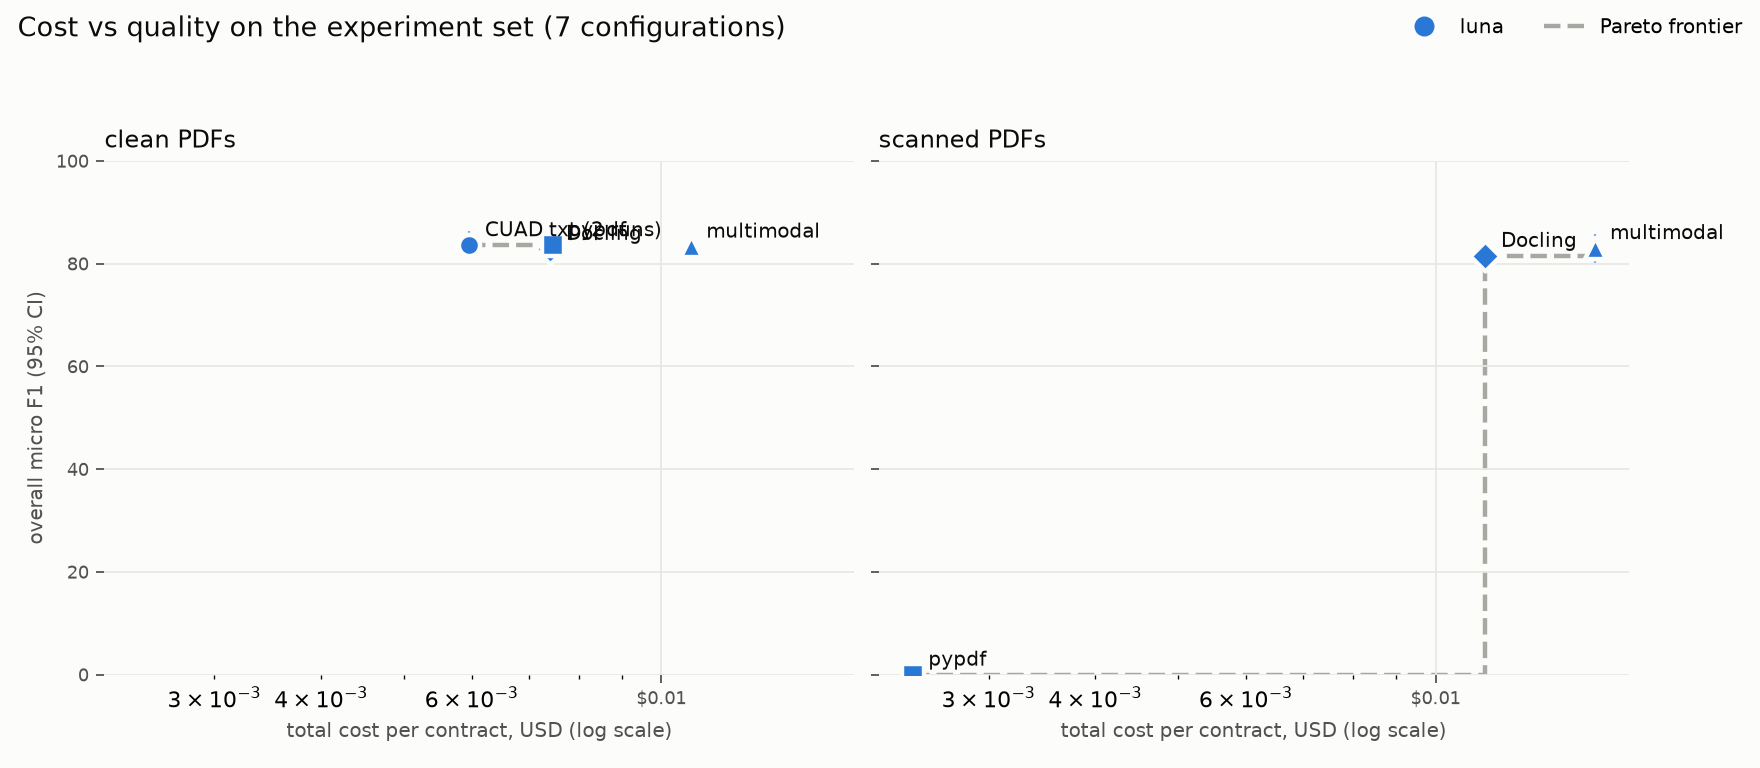
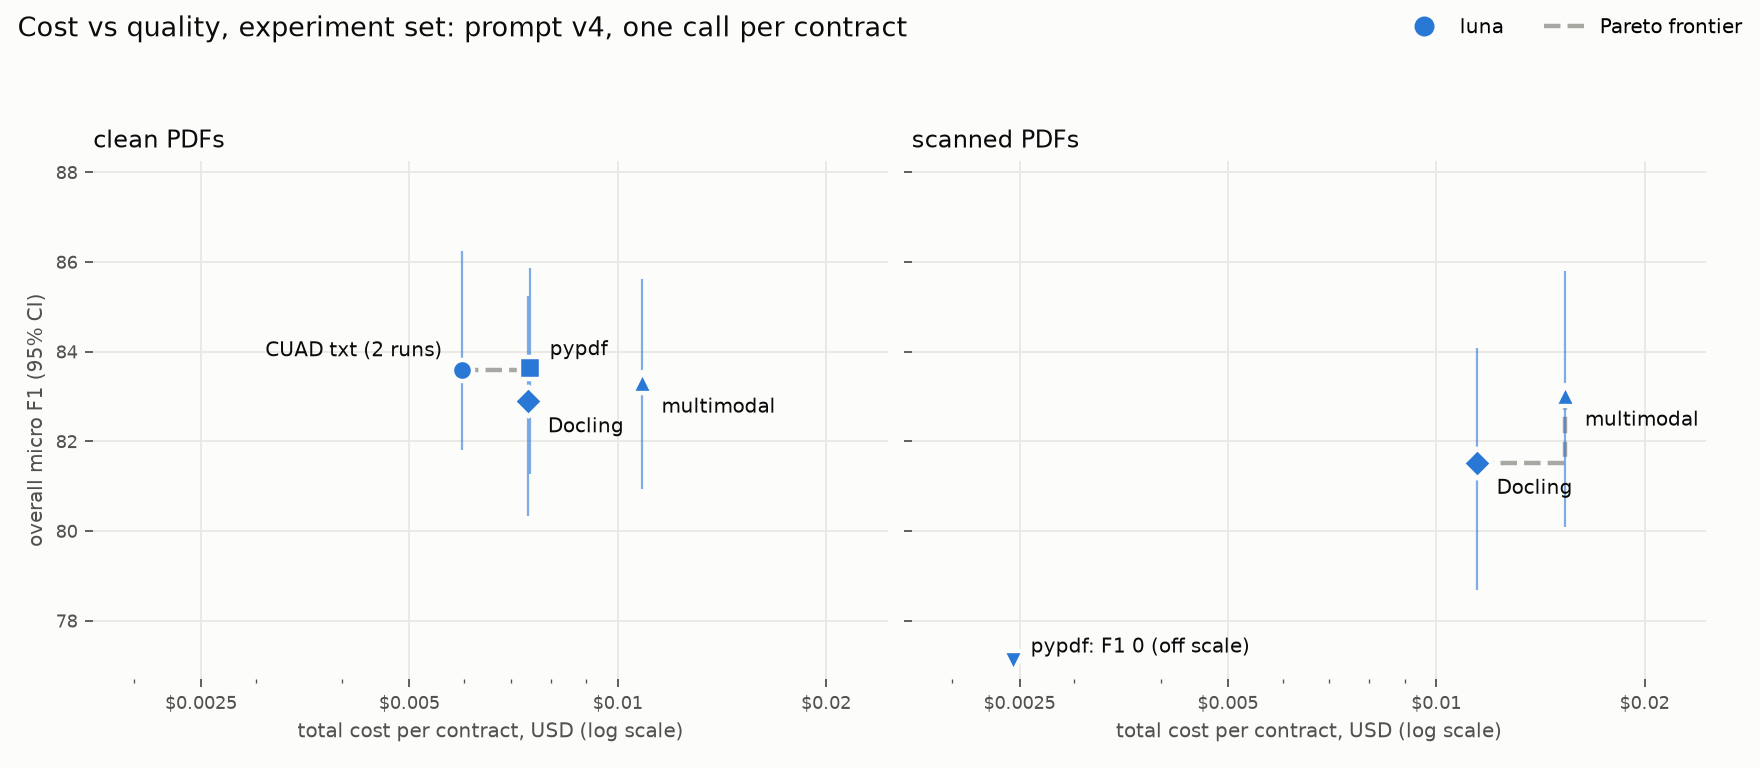
Pareto chart: zoom to working routes, pin collapsed ones, readable ticks and labels
Render check found the F1-0 pypdf-on-scans point squashing every other route
into a sliver, colliding labels and crowded minor ticks. The collapsed route
is now pinned to the bottom edge with an explicit off-scale label, routes get
fixed label sides, and cost ticks are fixed dollar values.

diff --git a/src/dip/eval/charts.py b/src/dip/eval/charts.py
@@ -25,7 +25,18 @@ TEXT_SECONDARY = "#52514e"
 GRID = "#e8e7e3"
 FRONTIER = "#a8a7a2"
 MODEL_COLORS = {"gpt-5.6-luna": "#2a78d6", "gpt-5.6-terra": "#eb6834", "gpt-5.6-sol": "#1baf7a"}
-ROUTE_MARKERS = {"txt": "o", "pypdf": "s", "docling": "D", "multimodal": "^"}
+ROUTE_MARKERS = {"txt": "o", "pypdf": "s", "docling": "D", "multimodal": "^", "hybrid": "P"}
+# Label placement per route (points, alignment): routes sit close together in cost and
+# F1, so each gets its own side instead of an automatic offset that collides.
+LABEL_OFFSETS = {
+    "txt": ((-9, 6), "right"),
+    "pypdf": ((9, 6), "left"),
+    "docling": ((9, -14), "left"),
+    "multimodal": ((9, -14), "left"),
+    "hybrid": ((9, 6), "left"),
+}
+COST_TICKS = (0.0025, 0.005, 0.01, 0.02, 0.05, 0.1)
+OFF_SCALE_F1 = 0.2  # below this a route has collapsed: pin it to the edge, label it
 ROUTE_LABELS = {
     "txt": "CUAD txt",
     "pypdf": "pypdf",
@@ -101,17 +112,21 @@ def render(points: list[Point], out: Path, title: str) -> None:
     matplotlib.use("Agg")
     import matplotlib.pyplot as plt
     from matplotlib.lines import Line2D
+    from matplotlib.ticker import FuncFormatter, NullFormatter
 
-    variants = ["clean", "scanned"]
-    from matplotlib.ticker import FuncFormatter
+    # Zoom to the routes that work; a collapsed route (F1 ~0, e.g. pypdf on scans) is pinned
+    # to the bottom edge with an explicit label instead of squashing everything into a sliver.
+    on_scale = [p for p in points if p.f1 >= OFF_SCALE_F1] or points
+    y_low = 100 * min((p.low for p in on_scale), default=0.5) - 2
+    y_high = min(100.0, 100 * max((p.high for p in on_scale), default=1.0) + 2)
+    dollars = FuncFormatter(lambda v, _: f"${v:.3g}")
 
     # Shared x and y: the two panels must be directly comparable.
     fig, axes = plt.subplots(1, 2, figsize=(11, 4.8), sharex=True, sharey=True, facecolor=SURFACE)
-    lows = [p.low for p in points] or [0.5]
-    for ax, variant in zip(axes, variants, strict=True):
+    for ax, variant in zip(axes, ("clean", "scanned"), strict=True):
         ax.set_facecolor(SURFACE)
         panel = [p for p in points if p.variant == variant]
-        front = pareto_front(panel)
+        front = [p for p in pareto_front(panel) if p.f1 >= OFF_SCALE_F1]
         if len(front) > 1:
             ax.step(
                 [p.cost for p in front],
@@ -122,8 +137,30 @@ def render(points: list[Point], out: Path, title: str) -> None:
                 linestyle="--",
                 zorder=1,
             )
-        for p in panel:
+        for p in sorted(panel, key=lambda q: (q.cost, q.f1)):
             color = MODEL_COLORS.get(p.model, TEXT_SECONDARY)
+            name = ROUTE_LABELS.get(p.route, p.route)
+            if p.f1 < OFF_SCALE_F1:
+                ax.scatter(
+                    p.cost,
+                    y_low + 0.4,
+                    s=90,
+                    marker="v",
+                    color=color,
+                    edgecolors=SURFACE,
+                    linewidths=2,
+                    zorder=3,
+                    clip_on=False,
+                )
+                ax.annotate(
+                    f"{name}: F1 {100 * p.f1:.0f} (off scale)",
+                    (p.cost, y_low + 0.4),
+                    xytext=(8, 4),
+                    textcoords="offset points",
+                    fontsize=9,
+                    color=TEXT_PRIMARY,
+                )
+                continue
             ax.errorbar(
                 p.cost,
                 100 * p.f1,
@@ -145,21 +182,25 @@ def render(points: list[Point], out: Path, title: str) -> None:
                 linewidths=2,
                 zorder=3,
             )
-            label = ROUTE_LABELS.get(p.route, p.route) + (f" ({p.runs} runs)" if p.runs > 1 else "")
+            label = name + (f" ({p.runs} runs)" if p.runs > 1 else "")
+            offset, align = LABEL_OFFSETS.get(p.route, ((9, 6), "left"))
             ax.annotate(
                 label,
                 (p.cost, 100 * p.f1),
-                xytext=(7, 4),
+                xytext=offset,
                 textcoords="offset points",
+                ha=align,
                 fontsize=9,
                 color=TEXT_PRIMARY,
             )
         ax.set_xscale("log")
-        ax.xaxis.set_major_formatter(FuncFormatter(lambda v, _: f"${v:g}"))
+        ax.set_xticks(COST_TICKS)
+        ax.xaxis.set_major_formatter(dollars)
+        ax.xaxis.set_minor_formatter(NullFormatter())
         ax.set_title(f"{variant} PDFs", fontsize=11, color=TEXT_PRIMARY, loc="left")
         ax.set_xlabel("total cost per contract, USD (log scale)", fontsize=9, color=TEXT_SECONDARY)
         ax.grid(True, which="major", color=GRID, linewidth=0.8)
-        ax.tick_params(colors=TEXT_SECONDARY, labelsize=8)
+        ax.tick_params(colors=TEXT_SECONDARY, labelsize=8, which="both")
         for spine in ax.spines.values():
             spine.set_visible(False)
         if not panel:
@@ -167,7 +208,9 @@ def render(points: list[Point], out: Path, title: str) -> None:
                 0.5, 0.5, "no runs yet", transform=ax.transAxes, ha="center", color=TEXT_SECONDARY
             )
     axes[0].set_ylabel("overall micro F1 (95% CI)", fontsize=9, color=TEXT_SECONDARY)
-    axes[0].set_ylim(max(0, 100 * min(lows) - 5), 100)
+    axes[0].set_ylim(y_low, y_high)
+    costs = [p.cost for p in points] or [0.005]
+    axes[0].set_xlim(min(costs) / 1.4, max(costs) * 1.6)
     handles = [
         Line2D(
             [], [], marker="o", linestyle="", color=c, markersize=8, label=m.replace("gpt-5.6-", "")

diff --git a/src/dip/cli.py b/src/dip/cli.py
@@ -608,9 +608,7 @@ def pareto(
     from dip.eval.charts import collect_points, pareto_front, render
 
     points = collect_points(_paths()["runs"], split)
-    render(
-        points, out, f"Cost vs quality on the {split} set ({points and len(points)} configurations)"
-    )
+    render(points, out, f"Cost vs quality, {split} set: prompt v4, one call per contract")
     for p in sorted(points, key=lambda p: (p.variant, p.cost)):
         star = "*" if p in pareto_front([q for q in points if q.variant == p.variant]) else " "
         typer.echo(
